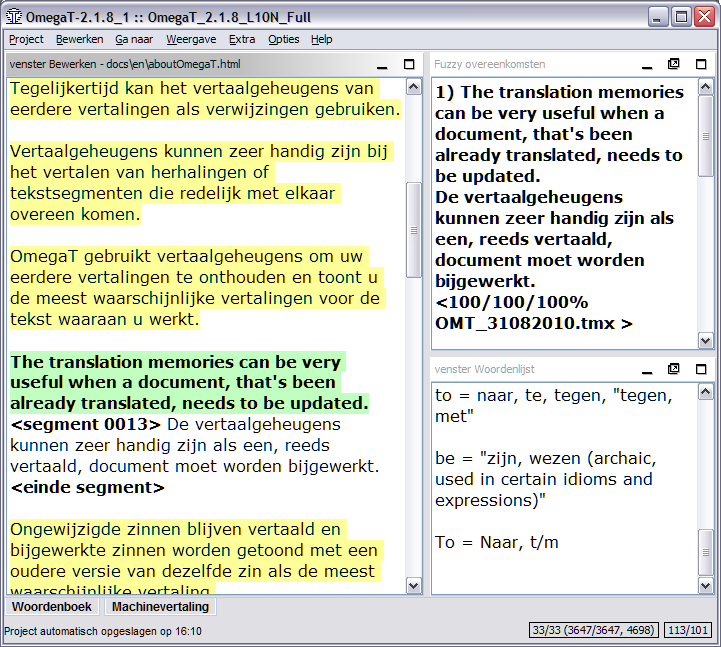
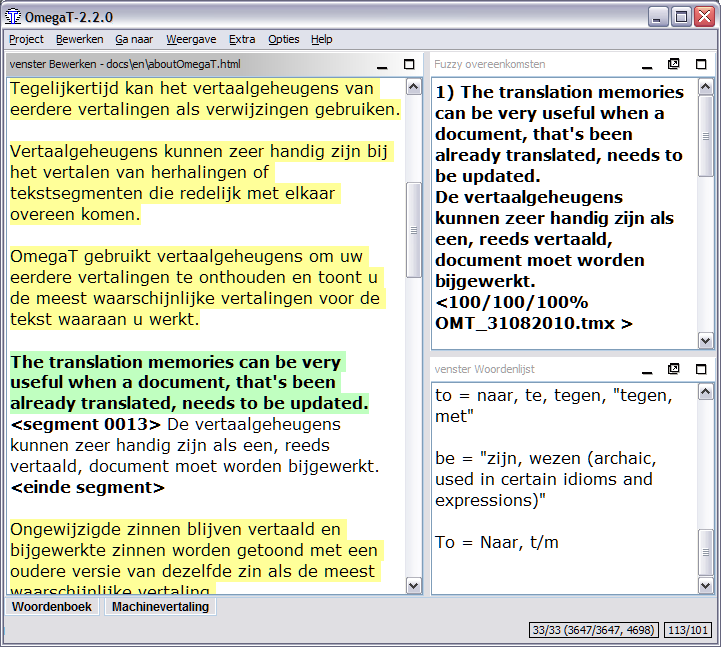
Dutch localisation updated to 2.2.0 (UI, Readme, documentation)
git-svn-id: https://omegat.svn.sourceforge.net/svnroot/omegat/trunk@3201 b0d8beef-cb45-0410-a8e4-c0d495c3b779

diff --git a/docs/nl/translationMemories.html b/docs/nl/translationMemories.html
@@ -15,7 +15,7 @@
       <ul>
         <li><a href="#TMX_files_locations_and_purpose">Locatie en doel</a></li>
 
-        <li><a href="#TMX_backup">TMX backup</a></li>
+        <li><a href="#TMX_backup">TMX back-up</a></li>
 
         <li><a href="#TMX_files_and_language">TMX en taal</a></li>
       </ul>
@@ -53,7 +53,7 @@
 
   <ul>
     <li>
-      <p>De map <em>/omegat/</em> bevat <em>project_save.tmx</em> en eventueel een aantal backups van TMX-bestanden.</p>
+      <p>De map <em>/omegat/</em> bevat <em>project_save.tmx</em> en eventueel een aantal back-ups van TMX-bestanden.</p>
 
       <p>Het bestand <em>project_save.tmx</em> bevat alle segmenten die zijn onthouden sinds u het project startte.</p>
     </li>
@@ -80,18 +80,18 @@
       </ul>
     </li>
 
-    <li>De map <em>/tm/</em> kan elk aantal TMX-bestanden bevatten. Zulke bestanden moeten correcte TMXbestanden zijn en kunnen ofwel alleen tekstuele informatie bevatten (niveau 1 TMX), OmegaT tekstuele en opmaakinformatie (omegat TMX) of TMX tekstuele en opmaakinformatie (niveau 2 TMX). De verschillen tussen hen zijn technisch van aard (zie hieronder voor de details), en als u een vertaalgeheugen uit een eerder project wilt gebruiken, zijn zij grotendeels uitwisselbaar, dat is zij zullen allemaal goed werken.
+    <li>De map <em>/tm/</em> kan elk aantal TMX-bestanden bevatten. Zulke bestanden moeten correcte TMX-bestanden zijn en kunnen ofwel alleen tekstuele informatie bevatten (niveau 1 TMX), OmegaT tekstuele en opmaakinformatie (omegat TMX) of TMX tekstuele en opmaakinformatie (niveau 2 TMX). De verschillen tussen hen zijn technisch van aard (zie hieronder voor de details), en als u een vertaalgeheugen uit een eerder project wilt gebruiken, zijn zij grotendeels uitwisselbaar, dat is zij zullen allemaal goed werken.
     </li>
   </ul>
-  <p>Optioneel kunt u OmegaT een aanvullend TMXbestand (OmegaT-stijl) laten maken, ergens waar u dat opgeeft, dat alle vertaalbare segmenten van het project bevat. Zie <a href="#pseudo_translate">pseudo-vertaald geheugen</a>.</p>
+  <p>Optioneel kunt u OmegaT een aanvullend TMX-bestand (OmegaT-stijl) laten maken, ergens waar u dat opgeeft, dat alle vertaalbare segmenten van het project bevat. Zie <a href="#pseudo_translate">pseudo-vertaald geheugen</a>.</p>
   
 
   <a name="TMX_backup" id="TMX_backup"></a>
-  <h3>TMX backup</h3>
+  <h3>TMX back-up</h3>
 
   <p>Bij het vertalen van uw bestanden slaat OmegaT al uw voortgang op in het vertaalgeheugen in de submap <em>/omegat</em> van het project.</p>
 
-  <p>OmegaT maakt ook, elke keer als een project wordt geopend of herladen, een backup van het vertaalgeheugen in <em>project_save.tmx.JAARMMDDUUMM.bak</em> in dezelfde submap. <em>JAAR</em> is 4-getallen jaar, <em>MM</em> is een maand, <em>DD</em> dag van de maand, <em>UU</em> en <em>MM</em> zijn uren en minuten van wanneer het vorige vertaalgeheugen werd opgeslagen.</p>
+  <p>OmegaT maakt ook, elke keer als een project wordt geopend of herladen, een back-up van het vertaalgeheugen in <em>project_save.tmx.JAARMMDDUUMM.bak</em> in dezelfde submap. <em>JAAR</em> is 4-getallen jaar, <em>MM</em> is een maand, <em>DD</em> dag van de maand, <em>UU</em> en <em>MM</em> zijn uren en minuten van wanneer het vorige vertaalgeheugen werd opgeslagen.</p>
 
   <p>Als u denkt dat u vertaalde gegevens kwijt bent, volg dan deze procedure:</p>
 
@@ -100,7 +100,7 @@
 
     <li>hernoem het huidige <em>project_save.tmx</em>-bestand naar iets dat u zult onthouden (zoals bijvoorbeeld <em>project_save.tmx.tijdelijk</em>)</li>
 
-    <li>selecteer de backup van het vertaalgeheugen dat meest waarschijnlijk de gegevens bevat die u nodig hebt</li>
+    <li>selecteer de back-up van het vertaalgeheugen dat meest waarschijnlijk de gegevens bevat die u nodig hebt</li>
 
     <li>hernoem het naar <em>project_save.tmx</em></li>
 
@@ -109,7 +109,7 @@
 
   <h3>TMX-bestanden en taal</h3>
 
-  <p>TMXbestanden bevatten <i>vertaaleenheden</i> die zijn gemaakt van een aantal equivalente segmenten in verschillende talen. Een vertaaleenheid bestaat uit ten minste twee <i>vertaaleenheid variaties</i> (tuv). Beide kunnen als bron of doel worden gebruikt.</p>
+  <p>TMX-bestanden bevatten <i>vertaaleenheden</i> die zijn gemaakt van een aantal equivalente segmenten in verschillende talen. Een vertaaleenheid bestaat uit ten minste twee <i>vertaaleenheid variaties</i> (tuv). Beide kunnen als bron of doel worden gebruikt.</p>
 
   <p>De instellingen in uw project zullen aangeven wat de bron- en wat de doeltaal is. OmegaT zal dus de <strong>tuv</strong> nemen die overeenkomt met de brontaalcode van het project en dat segment gebruiken als het bronsegment en het zal de <strong>tuv</strong> nemen die overeenkomt met de doeltaalcode van het project en dat segment gebruiken als het doelsegment. OmegaT herkent ze met behulp van de twee volgende standaardconventies:</p>
 
@@ -150,7 +150,7 @@
     <li>Als u een nieuw project begint voor hetzelfde onderwerp of voor dezelfde klant, navigeer naar de voorraadmap in het dialoogvenster <em>Project &gt; Eigenschappen &gt; Project bewerken</em> en selecteer het als de map voor het vertaalgeheugen.</li>
   </ul>
 
-  <p>Onthoud wel dat alle TMX-bestanden in de voorraadmap <em>/tm</em> worden geparsed tijdens het opstarten van het programma, dus als u daarin alle TMX-bestanden plaats die u tegenkomt zal dat OmegaT onnodig langzamer maken. U zou zelfs kunnen overwegen om die, welke strikt noodzakelijk zijn, uit te schakelen (bijvoorbeeld door ze in de submap <em>/tm</em> te laten staan, maar hun extensie te wijzigen), als hun inhoud eenmaal is geladen in de <em>project_save.tmx</em> van uw huidige project.</p>
+  <p>Onthoud wel dat alle TMX-bestanden in de voorraadmap <em>/tm</em> worden geparset tijdens het opstarten van het programma, dus als u daarin alle TMX-bestanden plaats die u tegenkomt zal dat OmegaT onnodig langzamer maken. U zou zelfs kunnen overwegen om die, welke strikt noodzakelijk zijn, uit te schakelen (bijvoorbeeld door ze in de submap <em>/tm</em> te laten staan, maar hun extensie te wijzigen), als hun inhoud eenmaal is geladen in de <em>project_save.tmx</em> van uw huidige project.</p>
 
   <p><a name="using_memories" id="using_memories"></a></p>
 

diff --git a/docs/nl/glossaries.html b/docs/nl/glossaries.html
@@ -39,7 +39,7 @@ Het woord voor het =-teken is de bronterm en de vertaling is (of zijn) de woorde
 <p>Woordenlijstbestanden zijn eenvoudige platte tekst-bestanden die drie-kolommen, tabgescheiden lijsten bevatten met de bron- en doeltermen in respectievelijk de eerste en tweede kolom. De derde kolom kan worden gebruikt voor aanvullende informatie. Woordenlijstbestanden kunnen of in de standaard systeemcodering (en aangegeven door de extensie <code>.tab</code>) zijn of in UTF-8 (de extensie <code>.utf8</code>). De codering Unicode (UTF8) wordt om voor de hand liggende redenen aanbevolen.</p>
 <hr>
 <h2><a name="howtocreate" id="howtocreate"></a>Hoe zijn woordenlijsten te maken</h2>
-Deze methode is ook geschikt voor "dwazen", mits op een redelijk behoedzame manier gevolgd. U heeft er OpenOffice.org Writer voor nodig, dus - als u dat al niet heeft gedaan - download en installeer OpenOffice.org. Start OpenOffice.org en open een nieuw tekstdocument of start "OpenOffice.org Writer".<br> <br> Voer uw termen voor de woordenlijst als volgt in het lege document in: een term in de brontaal, tab, de term in de doeltaal, tab, een opmerking of uitleg voor het item en dan&nbsp;Return. Tab is de tabulator-toets aan de linkerzijde van het toetsenbord. Indien u geen opmerkingen wilt toevoegen, kunt u de tweede tab weglaten. Een "term" kan één enkel woord zijn of een hele frase. Op de tweede regel voert u de tweede term en diens vertaling in. <br> Als u gereed bent met het invoeren van de termen, zult u twee "kolommen" met termen hebben, termen in de brontaal links en hun termen in de doeltaal aan recht en mogelijk een derde kolom, die uw opmerkingen en uitleg bevat. De tekens tab (→ in het voorbeeld hieronder)&nbsp;en Enter (¶&nbsp;) kunnen zichtbaar worden gemaakt door te klikken op het pictogram ¶ op de werkbalk Standaard van Writer. Hier zijn een aantal regels van een&nbsp;Engels -Duitse woordenlijst)<br>
+Deze methode is ook geschikt voor "dwazen", mits op een redelijk behoedzame manier gevolgd. U heeft er OpenOffice.org Writer voor nodig, dus - als u dat al niet heeft gedaan - download en installeer OpenOffice.org. Start OpenOffice.org en open een nieuw tekstdocument of start "OpenOffice.org Writer".<br> <br> Voer uw termen voor de woordenlijst als volgt in het lege document in: een term in de brontaal, tab, de term in de doeltaal, tab, een opmerking of uitleg voor het item en dan&nbsp;Return. Tab is de tabulator-toets aan de linkerzijde van het toetsenbord. Indien u geen opmerkingen wilt toevoegen, kunt u de tweede tab weglaten. Een "term" kan één enkel woord zijn of een hele frase. Op de tweede regel voert u de tweede term en diens vertaling in.<br> <br> Als u gereed bent met het invoeren van de termen, zult u twee "kolommen" met termen hebben, termen in de brontaal links en hun termen in de doeltaal aan recht en mogelijk een derde kolom, die uw opmerkingen en uitleg bevat. De tekens tab (→ in het voorbeeld hieronder)&nbsp;en Enter (¶&nbsp;) kunnen zichtbaar worden gemaakt door te klikken op het pictogram ¶ op de werkbalk Standaard van Writer. Hier zijn een aantal regels van een&nbsp;Engels -Duitse woordenlijst)<br>
 <br>
 <div style="font-family: Courier New,Courier,monospace;">&nbsp;&nbsp;&nbsp;
 word →Wort→das (-/e/s, Wörter/-e)¶</div>
@@ -57,7 +57,7 @@ Gebruik NIET de functie "kolommen" van OpenOffice.org om kolommen te maken:&nbsp
  style="font-style: italic;">Huidige indeling behouden</span>" en&nbsp; "<span style="font-style: italic;">Opslaan in ODF-indeling</span>". Selecteer "<span style="font-style: italic;">Huidige indeling behouden</span>" om in de bestandsindeling tekst gecodeerd op te slaan. Selecteer "<span style="font-style: italic;">Unicode (UTF-8)</span>" als de tekenset in het dialoogvenster ASCII-filteropties (zie hieronder):<br> <br> <img alt="ascii-filteropties voor woordenlijst"
  src="./images/AsciiFilteroptions.png"><br> <br> Bevestig met OK.<br> <br> Kopieer of verplaats dit bestand naar de map <span style="font-style: italic;">\glossary</span> van het project, na het maken van een OmegaT project. Als het project al is geopend, herlaad het dan na het kopiëren van het woordenlijstbestand U kunt wijzigingen maken in een woordenlijstbestand terwijl het wordt gebruikt in een project. Wijzigingen in woordenlijsten worden na ongeveer één seconde opgemerkt en wijzigingen worden transparant op de achtergrond geladen, dus is er geen reden om het project opnieuw te laden na het opslaan van het nieuwe woordenlijstbestand.<br> <br> Wanneer een segment, dat een brontekstterm bevat, wordt geopend, zal het venster Woordenlijst de items weergeven voor die termen in het bronsegment die worden gevonden in de woordenlijst (of woordenlijsten - u kunt er meer dan één beschikbaar hebben, en zij mogen ook worden opgeslagen in submappen van <i>glossary</i>).
 <h3><a name="multiterm" id="multiterm"></a>Gebruik van Trados Multiterm</h3>
-<p>Woordenlijsten die zijn gemaakt met behulp van Trados Multiterm's tekstexportfunctie kunnen bijvoorbeeld zonder verdere aanpassingen worden gebruikt als OmegaT-woordenlijsten, vooropgesteld dat zij de bestandsextensie <code>.tab</code> hebben gekregen en de bron- en doelterm-velden respectievelijk de eerste twee velden zijn. Indien u exporteert met behulp van de systeemoptie "Tabgescheiden exporteren", moet u de eerste 5 kolommen verwijderen (Seq. Nr, Datum gemaakt etc) vóór de twee items die van belang zijn.</p>
+<p>Woordenlijsten die zijn gemaakt met behulp van de functie tekstexport van Trados Multiterm kunnen bijvoorbeeld zonder verdere aanpassingen worden gebruikt als OmegaT-woordenlijsten, vooropgesteld dat zij de bestandsextensie <code>.tab</code> hebben gekregen en de bron- en doelterm-velden respectievelijk de eerste twee velden zijn. Indien u exporteert met behulp van de systeemoptie "Tabgescheiden exporteren", moet u de eerste 5 kolommen verwijderen (Seq. Nr, Datum gemaakt etc) vóór de twee items die van belang zijn.</p>
 <hr>
 <h2><a name="commonglossaryproblems" id="commonglossaryproblems"></a>Algemene problemen met woordenlijsten</h2>
 <dl>

diff --git a/docs/nl/filesAndDirectories.html b/docs/nl/filesAndDirectories.html
@@ -30,7 +30,7 @@
   <ul>
     <li>Projectbestanden vertaling: Zij vormen een vertaalproject. Verlies van deze bestanden kan de integriteit van het project beïnvloeden alsmede de mogelijkheid van het voltooien van uw werk. Projectbestanden zijn de meest belangrijke bestanden in OmegaT. Het zijn de bestanden waarmee u dagelijks hebt te maken bij het vertalen.</li>
 
-    <li>Bestanden voor gebruikersinstellingen: Zij worden gemaakt als het gedrag van OmegaT wordt gewijzigd met voorkeursinstellingen die voor de gebruiker toegankelijk zijns. Verlies van deze bestanden zorgt er meestal voor dat OmegaT zal werken met "fabrieks"instellingen. Dit kan soms enige problemen geven als u midden in een vertaling bent.</li>
+    <li>Bestanden voor gebruikersinstellingen: Zij worden gemaakt als het gedrag van OmegaT wordt gewijzigd met voorkeursinstellingen die voor de gebruiker toegankelijk zijn. Verlies van deze bestanden zorgt er meestal voor dat OmegaT zal werken met "fabrieks"instellingen. Dit kan soms enige problemen geven als u midden in een vertaling bent.</li>
 
     <li>Toepassingsbestanden: Zij zijn opgenomen in het pakket dat u hebt gedownload, de meeste er van zijn nodig om OmegaT juist te laten functioneren. Als door enige oorzaak deze bestanden verloren gaan, download en herinstalleer dan OmegaT om ze allemaal terug te zetten.</li>
   </ul>
@@ -65,7 +65,7 @@
 
   <dl>
     <dt>De submap <b>omegat</b> zal uiteindelijk een aantal bestanden bevatten, het meest belangrijke daaronder is het bestand met het vertaalgeheugen <em>project_save.tmx</em> (<a href="translationMemories.html">...</a>). Het bestand <em>project_save.tmx</em> is het werkende vertaalgeheugen voor het project. Met de geactiveerde functie Automatisch opslaan wordt het automatisch bijgewerkt als u stopt. Het is het vertaalgeheugen dat wordt gebruikt om de vertaalde bestanden te maken. Een aantal bestanden met namen in de vorm project_save.tmx.<i>&lt;datum en tijd</i>&gt;.bak (<a href=
-    "translationMemories.html#TMX_backup">...</a>) zullen later aan deze submap worden toegevoegd. Zij dienen als backup voor het vertaalgeheugen van het project en worden, iedere keer als u een project opnieuw opent, bijgewerkt om de inhoud van het project weer te geven, voordat de huidige sessie die heeft veranderd.</dt>
+    "translationMemories.html#TMX_backup">...</a>) zullen later aan deze submap worden toegevoegd. Zij dienen als back-up voor het vertaalgeheugen van het project en worden, iedere keer als u een project opnieuw opent, bijgewerkt om de inhoud van het project weer te geven, voordat de huidige sessie die heeft veranderd.</dt>
 
     <dd>Het bestand <b>stats.txt</b> (<a href="userInterface.html#files">...</a>) bevat de statistieken over het huidige project en kan worden geopend in een werkbladtoepassing om segment- en informatie over de telling van woorden weer te geven. De informatie die het bevat is meer gedetailleerd dan wat er wordt weergegeven in het venster <em>Projectbestanden</em>. De bestanden <strong>ignored_words.txt</strong> en <strong>learned_words.txt</strong>, indien zij bestaan, zullen worden gebruikt door de spellingscontrole.</dd>
   </dl>
@@ -245,7 +245,7 @@
   <h3><a name="application" id="application"></a>Toepassingsbestanden</h3>
 
   <p>OmegaT bestaat uit een pakket dat u kunt downloaden vanaf SourceForge. In dit hoofdstuk gaan we uit van het <a href=
-  "installingAndRunning.html#Andere_systemen">platformonafhankelijke pakket</a> dat de toepassing in een standaard Java-vorm bevat. Andere pakketten zijn: een Linux <code>.tar</code> pakket, een Windows-installatieprogramma -met of zonder een Java Runtime Environment, een MacOSX-installatieprogramma en een broncodepakket voor ontwikkelaars. Dit platformonafhankelijke pakket kan worden gebruikt op <strong>elk</strong> platform met een werkende Java 1.5 runtime omgeving, inclusief de platforms waarvoor een specifiek pakket bestaat. Het platformonafhankelijke pakket bestaat uit een gecomprimeerd bestand dat u in de map van uw keuze moet uitpakken bij de installatie. Uitpakken wordt gewoonlijk gedaan door te dubbelklikken op het gedownloade pakket. Eenmaal uitgepakt zal een map zijn gemaakt die de de volgende inhoud zal bevatten:</p>
+  "installingAndRunning.html#Andere_systemen">platform onafhankelijke pakket</a> dat de toepassing in een standaard Java-vorm bevat. Andere pakketten zijn: een Linux <code>.tar</code> pakket, een Windows-installatieprogramma -met of zonder een Java Runtime Environment, een MacOSX-installatieprogramma en een broncodepakket voor ontwikkelaars. Dit platform onafhankelijke pakket kan worden gebruikt op <strong>elk</strong> platform met een werkende Java 1.5 runtime omgeving, inclusief de platforms waarvoor een specifiek pakket bestaat. Het platform onafhankelijke pakket bestaat uit een gecomprimeerd bestand dat u in de map van uw keuze moet uitpakken bij de installatie. Uitpakken wordt gewoonlijk gedaan door te dubbelklikken op het gedownloade pakket. Eenmaal uitgepakt zal een map zijn gemaakt die de volgende inhoud zal bevatten:</p>
 
   <table width="100%" border="1" cellpadding="4" cellspacing="0" summary=
   "just formatting">

diff --git a/docs/nl/spellchecker.html b/docs/nl/spellchecker.html
@@ -53,16 +53,16 @@
   <p>Klikken op <b>Opties &gt; Spellingscontrole...</b> zal het onderstaande venster openen:</p>
 
   <p><br></p><img src="images/SpellcheckerSetup2.png" name="grafika2" alt=
-  "Instellen spellingscontrole" align="left" width="498" height="325" border="0" id=
+  "Opties voor spellingscontrole" align="left" border="0" id=
   "grafika2"><br clear="left">
 
   <p><br></p>
 
   <p>Het bovenstaande voorbeeld bevat reeds de beschikbare woordenboeken. Initieel zal er niets in staan omdat u moet specificeren waar OmegaT moet zoeken naar de woordenboeken. Klik op <strong>Kies...</strong> om een dialoogvenster te openen waar u een submap kunt selecteren met bestaande woordenboeken van OpenOffice.org of Mozilla. De eenvoudigste manier om ze te vinden is om te zoeken naar bestanden met de extensies <i>aff</i> of <i>dic</i>. OmegaT zal alle beschikbare geldige woordenboeken op die locatie herkennen en ze weergeven. Als het woordenboek dat u wilt gebruiken daar al staat en zichtbaar is voor OmegaT, bent u klaar. Als er geen woordenboeken werden gevonden kunt u er een toepasselijke plaats voor kiezen en dan klikken op <b>Installeren</b> en OmegaT laten zoeken naar beschikbare woordenboeken. Selecteer de woordenboeken die u nodig hebt in het pop-upvenster en klik dan op <b>installeren</b>. De geselecteerde talen zullen dan worden geïnstalleerd en verschijnen uiteindelijk in het venster Instellen spellingscontrole (dit kan even duren).</p>
 
-  <p>Onthoud dat het installatieprogramma afhankelijk is van de lijst met woordenboeken op het internet. In het geval dat die gedateerd is of de gewenste taal niet beschikbaar is zult u zelf moeten zoeken naar de woordenboeken. OpenOffice.org bevat waarschijnlijk de grootste collectie woordenboeken op de site &lt;a3&gt;OpenOffice.org Dictionaries&lt;/a3&gt;. Nadat de extensie met het woordenboek is gedownload en geïnstalleerd, zullen de corresponderende <i>aff</i> en <i>dic</i> beschikbaar komen. Hetzelfde kan worden bereikt door een extensie voor spellingscontrole toe te voegen aan Firefox of Thunderbird; in dit geval zullen de bestanden van de spellingscontrole worden opgeslagen in uw profiel (Firefox of Thunderbird).</p>
+  <p>Onthoud dat het installatieprogramma afhankelijk is van de lijst met woordenboeken op het internet. In het geval dat die gedateerd is of de gewenste taal niet beschikbaar is zult u zelf moeten zoeken naar de woordenboeken. OpenOffice.org bevat waarschijnlijk de grootste collectie woordenboeken op de site <a href="http://extensions.services.openoffice.org/dictionary">OpenOffice.org Dictionaries</a>. Nadat de extensie met het woordenboek is gedownload en geïnstalleerd, zullen de corresponderende <i>aff</i> en <i>dic</i> beschikbaar komen. Hetzelfde kan worden bereikt door een extensie voor spellingscontrole toe te voegen aan Firefox of Thunderbird; in dit geval zullen de bestanden van de spellingscontrole worden opgeslagen in uw profiel (Firefox of Thunderbird).</p>
 
-  <p>Zorg er voor dat de taalcode van de doelbestanden correspondeert met de taalcode van het woordenboek: een FR-FR woordenboek zal niet werken met de instelling FR voor het doel. U zult de instelling naar FR-FR moeten wijzigen om de spellingscontrole het juiste woordenboek voor uw doel te laten herkennen. Zoek naar bestanden met de naam, verwijzend naar de gebruikte taal en die de extensies <i>aff</i> en &lt;i2&gt;dic.&lt;/i2&gt; hebben.</p>
+  <p>Zorg er voor dat de taalcode van de doelbestanden correspondeert met de taalcode van het woordenboek: een FR-FR woordenboek zal niet werken met de instelling FR voor het doel. U zult de instelling naar FR-FR moeten wijzigen om de spellingscontrole het juiste woordenboek voor uw doel te laten herkennen. Zoek naar bestanden met de naam, verwijzend naar de gebruikte taal en die de extensies <i>aff</i> en <i>dic.</i> hebben.</p>
 
   <h3><a name="Hints" id="Hints"></a>Hints</h3>
 
@@ -74,7 +74,7 @@
     </li>
 
     <li>
-      <p>Controleer de taalcode van uw doel met de beschikbare woordenboeken in het venster Instellen spellingscontrole. De spellingscontrole bepaalt de taal die het moet gebruiken uit de taalcode van het doel: als de taalcode voor het doel Braziliaans Portugees (PT_BR) is, moet de submap met woordenboeken de twee woordenboekbestanden, genaamd pt_br.aff en pt_br.dic, bevatten.</p>
+      <p>Controleer de taalcode van uw doel met de beschikbare woordenboeken in het venster Instellen spellingscontrole. De spellingscontrole bepaalt de taal die het moet gebruiken uit de taalcode van het doel: als de taalcode voor het doel Braziliaans Portugees (PT_BR) is, moet de submap met woordenboeken de twee woordenboekbestanden, genaamd <i>pt_br.aff</i> en <i>pt_br.dic</i>, bevatten.</p>
     </li>
   </ol>
 

diff --git a/docs/nl/installingAndRunning.html b/docs/nl/installingAndRunning.html
@@ -279,7 +279,7 @@
 
   <p>Dubbelklik op het programma dat u hebt gedownload en  volg de instructies om OmegaT te installeren. </p>
 
-  <h3><a name="windows_menu" id="windows_menu"></a>OmegaT toevoegen aan het startmenu of bureaublad</h3>
+  <h3><a name="windows_menu" id="windows_menu"></a>OmegaT toevoegen aan het menu Start of bureaublad</h3>
 
   <p>Gedurende de installatie zal het programma u vragen of u een map in het menu <em>Start</em> wilt maken en of u een snelkoppeling op het bureaublad en het systeemvak wilt maken.</p>
 
@@ -317,11 +317,11 @@
 
   <p>Als u de Java-startparameters vanaf de opdrachtregel wilt wijzigen kunt u de standaardinstellingen van OmegaT.app aanpassen door het bewerken van het bestand <em>Info.plist</em> dat zich bevind in <em>OmegaT.app/Contents/</em>. Open het bestand "Info.plist" door er met rechts op te klikken en de tekstbewerker van uw keuze te kiezen. U kunt het gedeelte <em>Properties</em> en ook het gedeelte <em>VMOptions</em> aanpassen. Indien u waarden wilt toevoegen aan <em>VMOptions</em>, plaatst u er een spatie tussen. Bijvoorbeeld: <code>-Xmx1024M -Duser.language=ja</code> zal OmegaT opstarten met 1024MB aan geheugen en de gebruikersinterface in het Japans.</p>
 
-  <p>Direct opstarten van <em>OmegaT.app</em> maakt het niet mogelijk om meerdere instances van <em>OmegaT.app</em> uit te voeren. Als u meerdere instances van <em>OmegaT.app</em> moet uitvoeren, gebruik dan in plaats daarvan het bestand <em>JavaApplicationStub</em> dat zich bevind in <em>OmegaT.app/ Contents/MacOS/</em>.</p>
+  <p>Direct opstarten van <em>OmegaT.app</em> maakt het niet mogelijk om meerdere instances van <em>OmegaT.app</em> uit te voeren. Als u meerdere instanties van <em>OmegaT.app</em> moet uitvoeren, gebruik dan in plaats daarvan het bestand <em>JavaApplicationStub</em> dat zich bevind in <em>OmegaT.app/ Contents/MacOS/</em>.</p>
 
   <p>Het is niet mogelijk om de Lucene stemmer te gebruiken uit het pakket <em>OmegaT.app</em>. U moet OmegaT uitvoeren vanaf de opdrachtregel (zie hieronder).</p>
 
-  <p>Roep het bestand <em>OmegaT.jar</em> aan dat zich bevind in <em>OmegaT.app/Contents/Resources/ Java/</em> om startparameters van Java te wijzigen vanaf de opdrachtregel. Opstarten van <em>OmegaT.app</em> vanaf de opdrachtregel is hetzelfde als het gebruiken van het "algemene" pakket van OmegaT. U zult in staat zijn om meerdere instances van OmegaT uit te voeren en ook om de Lucene stemmer te gebruiken. Bekijk "Starten vanaf de opdrachtregel" hieronder voor meer informatie.</p>
+  <p>Roep het bestand <em>OmegaT.jar</em> aan dat zich bevind in <em>OmegaT.app/Contents/Resources/ Java/</em> om startparameters van Java te wijzigen vanaf de opdrachtregel. Opstarten van <em>OmegaT.app</em> vanaf de opdrachtregel is hetzelfde als het gebruiken van het "algemene" pakket van OmegaT. U zult in staat zijn om meerdere instanties van OmegaT uit te voeren en ook om de Lucene stemmer te gebruiken. Bekijk "Starten vanaf de opdrachtregel" hieronder voor meer informatie.</p>
 
   <p>Klik met rechts op <em>OmegaT.app</em> en selecteer "Show Package Contents", of "cd" daar direct naar toe vanaf de opdrachtregel om toegang te krijgen tot een locatie binnen het pakket <em>OmegaT.app</em>.</p>
 
@@ -396,7 +396,7 @@
 
   <h3>Methode 1: openen van een venster voor de opdrachtregel</h3>
 
-  <p>Een venster voor de opdrachtregel wordt ook wel een "terminalvenster" genoemd. Op Windows wordt het een "MS-DOSvenster" genoemd en is het beschikbaar via het Startmenu, in Alle programma's → Bureau-accessoires, via het item "Opdrachtprompt". Het equivalent voor de Mac OS X is de toepassing Terminal die zich bevind in Programma's → Hulpprogramma's.</p>
+  <p>Een venster voor de opdrachtregel wordt ook wel een "terminalvenster" genoemd. Op Windows wordt het een "MS-DOSvenster" genoemd en is het beschikbaar via het menu Start, in Alle programma's → Bureau-accessoires, via het item "Opdrachtprompt". Het equivalent voor de Mac OS X is de toepassing Terminal die zich bevind in Programma's → Hulpprogramma's.</p>
 
   <p>U moet normaal gesproken twee opdrachten typen om OmegaT te starten. De eerste hiervan is:</p>
 

diff --git a/docs/nl/userInterface.html b/docs/nl/userInterface.html
@@ -44,6 +44,11 @@
                 <li>
                   <p><a href="#Match">venster Overeenkomsten</a></p>
                 </li>
+
+                <li>
+                  <p><a href="#Glossary">venster Woordenlijst</a></p>
+                </li>
+
                 <li>
                   <p><a href="#Glossary">venster Woordenlijst</a></p>
                 </li>
@@ -495,7 +500,7 @@
   <dl>
     <dt>Er zijn twee <a href="searches.html#searchmethods">typen</a> om te zoeken beschikbaar:</dt>
 
-    <dt>Exact zoeken zoekt naar de gespecificeerde zoekreeks binnen het huidige project of in een willekeurige map of mapgedeelte.</dt>
+    <dt><strong>Exact zoeken</strong> zoekt naar de gespecificeerde zoekreeks binnen het huidige project of in een willekeurige map of mapgedeelte.</dt>
 
     <dt><strong>Zoeken op sleutelwoorden -</strong> onderzoekt het huidige project en geeft alle segmenten weer die alle gezochte woorden bevatten, in willekeurige volgorde.</dt>
   </dl>
@@ -530,7 +535,7 @@
   <p>De tags worden vet blauw geaccentueerd voor eenvoudige vergelijking tussen de originele en de vertaalde inhoud. Klik op de koppeling om naar het segment in het venster Bewerken te springen. Verbeter, indien nodig, de fout en druk op <code><a href="menu.html#shortcuts">Ctrl+T</a></code> om terug te keren naar het venster Tags valideren om andere fouten te corrigeren. In het eerste en derde geval hierboven waren tags niet correct gepaard en in het tweede geval ontbreekt bij de openingstag het &lt;-teken.</p>
 
   <p><a href="formattedText.html#intro">Tag</a>-fouten zijn <a href=
-  "formattedText.html#tag_operation">tagbewerkingen</a> in de vertaling die niet dezelfde tagvolgorde en nummering teruggeven als die in het originele segment. Sommige tagbewerkingen zijn noodzakelijk en zijn goedaardig, sommige zullen problemen veroorzaken als het vertaalde document wordt gemaakt. Tags vertegenwoordigen meestal enige vorm van opmaak in de originele tekst. <strong>Vereenvoudigen van de originele tekstopmaak</strong> draagt enorm bij tot het verminderen van het aantal tags.</p>
+  "formattedText.html#tag_operation">tagbewerkingen</a> in de vertaling die niet dezelfde tagvolgorde en nummering teruggeven als die in het originele segment. Sommige tagbewerkingen zijn noodzakelijk en zijn goedaardig, sommige zullen problemen veroorzaken als het vertaalde document wordt gemaakt. Tags vertegenwoordigen meestal enige vorm van opmaak in de originele tekst. <strong>Vereenvoudigen van de opmaak van de originele tekst</strong> draagt enorm bij aan het verminderen van het aantal tags.</p>
 
   <h3>Help-browser</h3>
 

diff --git a/docs/nl/filesToTranslate.html b/docs/nl/filesToTranslate.html
@@ -133,7 +133,7 @@
   <h3><a name="tagged" id="tagged"></a>Opgemaakte tekstbestanden</h3>
 
   <p>Opgemaakte tekstbestanden bevatten zowel tekst als informatie, zoals lettertype, afmeting, kleur etc. Zij worden normaal gesproken gemaakt met tekstbewerkingsprogramma's of programma's voor het maken van homepages. Zulke bestanden worden zodanig opgeslagen dat zij hun opmaakinformatie behouden. Zulke opmaakinformatie kan eenvoudig zijn zoals <strong>dit is vet</strong> of zo complex als tabelgegevens met verschillende lettertype-afmetingen, kleur, positie etc. In de meeste vertalingen wordt het belangrijk geacht dat het vertaalde document er uitziet zoals het origineel. OmegaT stelt u in staat om dit te doen door het markeren van de tekens/woorden die een speciale opmaak hebben met eenvoudig te bewerken <a href="formattedText.html">tags</a>. Vereenvoudigen van de opmaak van de originele tekst draagt enorm bij aan het verminderen van het aantal tags. Het gelijk maken van gebruikte lettertypen, lettertype-afmetingen, kleuren etc zou indien mogelijk moeten worden overwogen, om het vertalen te vereenvoudigen en het verminderen van het aantal mogelijke <a href=
-  "userInterface.html#Tag_validation">fouten in tags</a>. Elk bestandstype wordt verschillend behandeld in OmegaT. Specifiek gedrag kan worden ingesteld in de <a href="fileFilters.html">bestandsfilters</a>. Momenteel ondersteunt OmegaT de volgende formaten voor opgemaakte tekst:</p>
+  "userInterface.html#Tag_validation">fouten in tags</a>. <a name="specifics" id="specifics"></a> Elk bestandstype wordt verschillend behandeld in OmegaT. Specifiek gedrag kan worden ingesteld in de <a href="fileFilters.html">bestandsfilters</a>. Momenteel ondersteunt OmegaT de volgende formaten voor opgemaakte tekst:</p>
 
   <ul>
     <li>

diff --git a/docs/nl/xindex.html b/docs/nl/xindex.html
@@ -231,10 +231,15 @@
         <td width="20%"><a href=
         "installingAndRunning.html#Windows_users">Windows-gebruikers</a></td>
 
+        <td width="20%"><a href="installingAndRunning.html#MacOSX_users">MacOSX
+        users</a></td>
+
         <td width="20%"><a href="installingAndRunning.html#Andere_systemen">Andere systemen</a></td>
 
         <td width="20%"><a href="installingAndRunning.html#build_which">Pakket om te downloaden</a></td>
+      </tr>
 
+      <tr>
         <td width="20%"><a href=
         "installingAndRunning.html#source_build">OmegaT bouwen vanuit de bron</a></td>
       </tr>
@@ -265,7 +270,7 @@
 
       <tr>
         <td width="20%"><a href=
-        "http://tech.groups.yahoo.com/group/OmegaT/database?method=reportRows&amp;tbl=1">
+        "http://tech.groups.yahoo.com/group/OmegaT/database?method=reportRows&tbl=1">
         OmegaT FAQ's</a></td>
 
         <td width="20%"><a href=
@@ -275,7 +280,7 @@
         <td width="20%"><a href="website.html">Rapport met problemen</a></td>
 
         <td width="20%"><a href=
-        "http://sourceforge.net/tracker/?group_id=68187&amp;atid=520347">Foutenrapporten</a></td>
+        "http://sourceforge.net/tracker/?group_id=68187&atid=520347">Foutenrapporten</a></td>
 
         <td width="20%"><a href="license.txt">Gnu algemene publieke licentie</a></td>
       </tr>
@@ -625,8 +630,7 @@
         <td width="20%"><a href=
         "translationMemories.html#TMX_files_location_and_purpose">TMX - bestanden locatie</a></td>
 
-        <td width="20%"><a href="translationMemories.html#TMX_backup">TMX -
-        backup</a></td>
+        <td width="20%"><a href="translationMemories.html#TMX_backup">TMX - back-up</a></td>
       </tr>
 
       <tr>

diff --git a/docs/nl/formattedText.html b/docs/nl/formattedText.html
@@ -85,7 +85,7 @@
   <p>Als echter de standaard segmentatieregels op dit segment worden toegepast (het standaard OmegaT-gedrag) krijgen we het volgende resultaat:</p>
   <pre>
  <strong>&lt;segment 1990&gt;</strong> <font color=
-"#FB0000">&lt;b0&gt;</font>Vóór: \. &lt;einde segment&gt;
+"#FB0000">&lt;b0&gt;</font>Vóór: \. <strong>&lt;einde segment&gt;</strong><br>
 <strong>&lt;segment 1991&gt;</strong> Na: \s<font color=
 "#FB0000">&lt;/b0&gt;</font><strong>&lt;einde segment&gt;</strong> <br>
 </pre>
@@ -250,7 +250,7 @@ echo printf(_("OmegaT is erg %s"),$var);</pre>
   <p>Volledige validatie ondersteunt deze indeling volledig, met uitzondering van de <code>WIDTHSPECIFIER</code>. In eenvoudige validatie wordt de volgende syntaxis gecontroleerd:</p>
   <pre>"%" [ARGUMENTSWAPSPECIFIER] [PRECISIONSPECIFIER] TYPESPECIFIER</pre>
 
-  <p>U kunt de volgorde van de aanduidingen wijzigen, maar dan moet u de ARGUMENTSWAPSPECIFIER toevoegen als die er nog niet staat. Dit betekent het toevoegen van een reeksnummer en een dollarteken na de <code>%</code>. Bijv. <code>"%s is een %s toepassing"</code> is gelijk aan <code>"%1$s is een %2$s toepassing"</code> die u kunt vertalen door <code>"a %2$s toepassing is %1$s"</code>.
+  <p>U kunt de volgorde van de aanduidingen wijzigen, maar dan moet u de ARGUMENTSWAPSPECIFIER toevoegen als die er nog niet staat. Dit betekent het toevoegen van een reeksnummer en een dollarteken na de <code>%</code>. Bijv. <code>"%s is een %s toepassing"</code> is gelijk aan <code>"%1$s is een %2$s toepassing"</code> die u kunt vertalen door <code>"een %2$s toepassing is %1$s"</code>.
   </p>
   <hr>
 

diff --git a/docs/nl/website.html b/docs/nl/website.html
@@ -13,10 +13,10 @@
 
   <p>De <a href="http://www.omegat.org/">OmegaT-website</a> bevat koppelingen naar verschillende bronnen voor OmegaT, dus u zou daar kunnen beginnen. Ondersteuning voor gebruikers wordt gegeven op vrijwillige basis op de <a href=
   "http://groups.yahoo.com/group/OmegaT/">OmegaT Yahoo gebruikersgroep</a>. De hoek met <a href=
-  "http://tech.groups.yahoo.com/group/OmegaT/database?method=reportRows&amp;tbl=1"> FAQ's</a> daar zou een goed begin kunnen zijn voor uw vragen. OmegaT heeft ook een IRC (Internet Relay Chat)-kanaal op FreeNode: #omegat. Nieuwe versies van OmegaT kunnen worden gedownload van <a href=
+  "http://tech.groups.yahoo.com/group/OmegaT/database?method=reportRows&tbl=1"> FAQ's</a> daar zou een goed begin kunnen zijn voor uw vragen. OmegaT heeft ook een IRC (Internet Relay Chat)-kanaal op FreeNode: #omegat. Nieuwe versies van OmegaT kunnen worden gedownload van <a href=
   "http://sourceforge.net/projects/omegat/">OmegaT SourceForge.net Project</a>, waar u ook <a href=
-  "http://sourceforge.net/tracker/?group_id=68187&amp;atid=520347">foutenrapporten</a> en <a href=
-  "http://sourceforge.net/tracker/?group_id=68187&amp;atid=520350">verzoeken voor verbeteringen</a> kunt indienen.</p>
+  "http://sourceforge.net/tracker/?group_id=68187&atid=520347">foutenrapporten</a> en <a href=
+  "http://sourceforge.net/tracker/?group_id=68187&atid=520347">verzoeken voor verbeteringen</a> kunt indienen.</p>
 
   <h3>Foutenrapporten</h3>
 

diff --git a/docs/nl/menu.html b/docs/nl/menu.html
@@ -286,7 +286,7 @@
 
       <tr bgcolor="#FFFFFF">
         <td colspan="3">
-          <p>Het menu Bewerken bevat de volgende sneltoetsen:</p>
+          <p>Het menu <strong>Bewerken</strong> bevat de volgende sneltoetsen:</p>
 
       </td></tr><tr bgcolor="#DDDDDD">
         <td>
@@ -568,7 +568,7 @@
         </td>
 
         <td>
-          <p>Controleert op missende of misplaatste tags in opgemaakte bestanden. Zal een lijst weergeven waarin de segmenten met tagfouten staan. De sectie over het venster <a href=
+          <p>Controleert op ontbrekende of misplaatste tags in opgemaakte bestanden. Zal een lijst weergeven waarin de segmenten met tagfouten staan. De sectie over het venster <a href=
           "userInterface.html#Tag_validation">Tags valideren</a> laat zien wat u daar ziet en <a href="formattedText.html">Werken met opgemaakte tekst</a> vertelt u waarom.</p>
         </td>
       </tr>
@@ -1128,7 +1128,7 @@
         </td>
 
         <td>
-          <p>Opent een nieuw venster &lt;a0&gt;Zoeken&lt;/a0&gt;.</p>
+          <p>Opent een nieuw venster Zoeken.</p>
         </td>
       </tr>
 

diff --git a/docs/nl/preventingDataLoss.html b/docs/nl/preventingDataLoss.html
@@ -20,7 +20,7 @@
 
     <li>hernoem het huidige <code>project_save.tmx</code>-bestand naar iets dat u zult onthouden (zoals bijvoorbeeld <code>project_save.tmx.tijdelijk</code>)</li>
 
-    <li>selecteer de backup van het vertaalgeheugen dat meest waarschijnlijk de gegevens bevat die u nodig hebt</li>
+    <li>selecteer de back-up van het vertaalgeheugen dat meest waarschijnlijk de gegevens bevat die u nodig hebt</li>
 
     <li>hernoem het naar <code>project_save.tmx</code></li>
 
@@ -30,7 +30,7 @@
   <p>Voorkomen van verlies van belangrijke gegevens:</p>
 
   <ul>
-    <li>Maak regelmatig kopieën van het bestand <code>/omegat/project_save.tmx</code> naar backupmedia, zoals CD of DVD.</li>
+    <li>Maak regelmatig kopieën van het bestand <code>/omegat/project_save.tmx</code> naar back-upmedia, zoals CD of DVD.</li>
 
     <li>Maak met regelmatige tussenpozen de vertaalde bestanden en controleer of dat vertaalde bestand de laatste versie van uw vertaling bevat, totdat u zich OmegaT eigen hebt gemaakt.</li>
 
